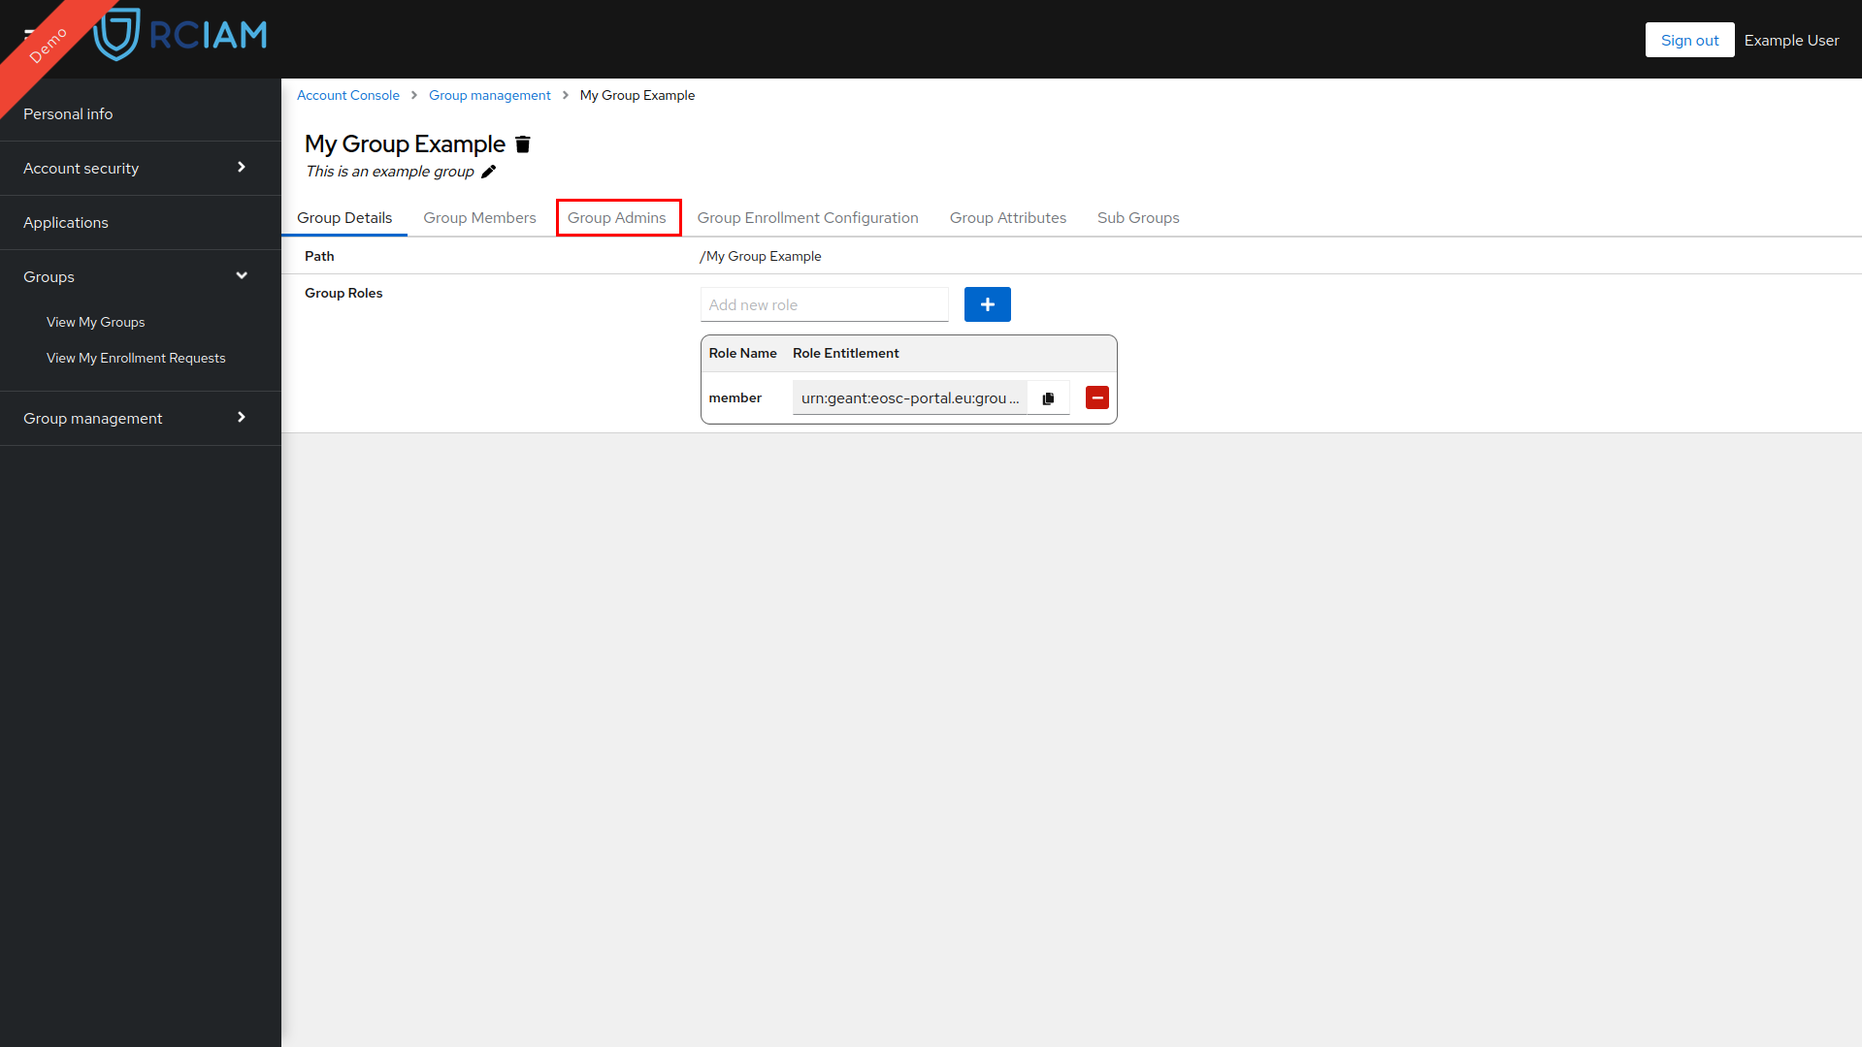
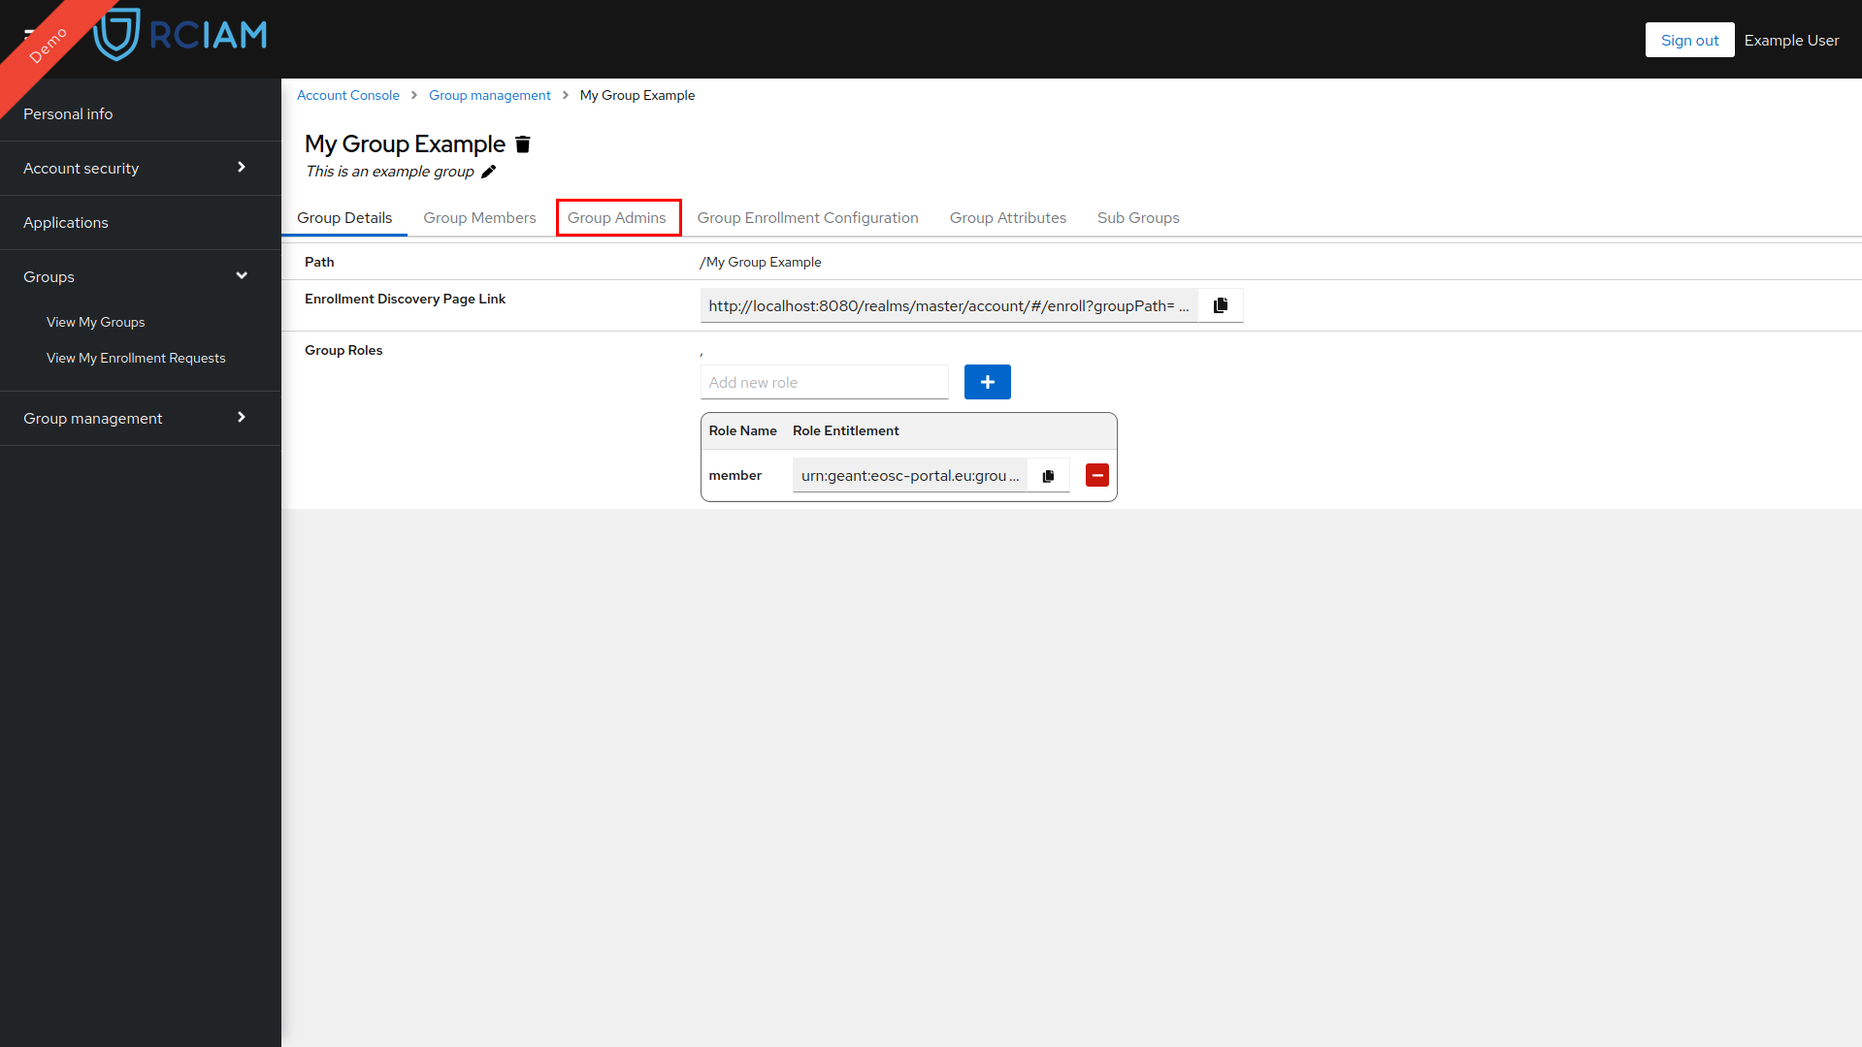
Update Group Management Admin Documentation

Changed region(s): [[0.3689, 0.2444, 0.6149, 0.4583], [0.1537, 0.2444, 0.2767, 0.3361], [0.5842, 0.4278, 0.6149, 0.4889]]

diff --git a/docs/manager/group-management.md b/docs/manager/group-management.md
@@ -4,7 +4,141 @@ sidebar_position: 4
 
 # Groups
 
+This page provides information about using RCIAM for managing your Group.
+
+## Background
+
+In simple terms, a Group is a collection of users. In RCIAM, Groups are created to organise researchers who aim to share resources across services to achieve a common goal within scientific collaborations.
+
+## Group Management
+
+Groups in RCIAM go beyond simple collections of users, providing structured membership management and advanced enrollment workflows tailored for complex access needs. Organised hierarchically, groups can contain subgroups within parent groups, with centralised administration allowing membership expirations to cascade through child memberships. This setup streamlines administrative tasks while enhancing security.
+
+
+### Group Admins 
+In RCIAM, Groups are managed by Group Admins, who have several key responsibilities:
+
+- [**Managing roles**](#view-group-details-and-manage-group-roles) for specific permissions within the Group.
+- [**Managing member roles**](#manage-group-member-roles) to users based on their needs or requests.
+- [**Extending memberships**](#extend-group-member-membership) for continued access.
+- [**Suspending or activating memberships**](#suspend-or-activate-group-member) to control user access as required.
+- [**Managing enrollment configurations**](#manage-enrollment-configurations) to define how users can join the Group.
+- [**Creating**](#create-sub-group)/[**Deleting**](#delete-sub-group) Sub Groups within the Group hierarchy.
+
+> **Note:** *Group Admin* is not a role within the Group; it is a separate administrative designation. Group Admins have the ability to manage all aspects of the Group, as well as any sub-groups in the hierarchy, including roles, memberships, and configurations.
+
+### Group Roles
+
+In RCIAM, members of Groups are assigned roles upon joining. Users can join a Group in one of two ways:
+
+- **By accepting an invitation**: Users receive the roles specified by the inviting administrator.
+- **By submitting an enrollment request**: Users can select their preferred roles from the options available, as defined by the Group’s enrollment configuration.
+
+Each assigned role includes an entitlement attribute, which grants authorization to specific resources. This flexible approach to role assignment allows Group administrators to control access while offering users the ability to select roles when available.
+
+> **Note:** *Entitlement* values can be found on the [**Group Details Tab**](#view-group-details-and-manage-group-roles)
+
+### Membership Status
+
+Members of a Group in RCIAM can have different statuses that affect their access and entitlements:
+
+- **Active**: The membership is fully active, and the user receives all entitlements associated with the roles they hold in the Group.
+
+- **Suspended**: Administrators can suspend a user’s membership for security reasons, such as suspicious activity. While suspended, the user retains membership but loses all entitlements tied to their roles. Administrators can later revoke the suspension and [reactivate the membership](#suspend-or-activate-group-member).
+
+- **Pending**: A user’s membership can have a future start date based on the enrollment configuration used during joining. This scheduled membership will activate automatically on the specified start date. Administrators also have the option to [activate the membership manually](#suspend-or-activate-group-member) if needed.
+
+> **Note:** **Suspension/Activation** of a member will also affect all memberships in Sub Groups of target group
+
+Each status provides Group administrators with flexible control over user access and helps ensure security within the Group.
+
+
+### Membership Expiration 
+
+Memberships in Groups come with a defined duration, which may be set to indefinite if allowed by the Group’s configuration settings. However, the duration of any membership is also affected by the Group's position within the Group hierarchy. Membership in a higher-level Group imposes a duration limit on all memberships in its subordinate Groups. As a result, the expiration date for any membership in a lower-level Group cannot exceed the duration limit set by the higher-level Group.
+
+#### Understanding Expiration Dates in Group Memberships
+
+When viewing members within a Group, you will encounter two types of expiration dates:
+
+- **Direct Membership Expiration**: This date indicates the expiration of membership specifically for the Group you are currently viewing. It applies only to that Group and not to any other Group within the hierarchy.
+  
+- **Effective Membership Expiration**: If relevant, this reflects the actual expiration date imposed by a higher-level Group. If a higher-level Group has an earlier expiration date than the Direct Membership Expiration, the Effective Membership Expiration will take precedence, overriding the direct expiration date for the current Group.
+
+For example, if a user’s Direct Membership Expiration in a lower-level Group is set to indefinite (or a date beyond 2024), but the Effective Membership Expiration from a higher-level Group is November 12, 2024, the user’s membership will expire on November 12, 2024, in line with the higher Group’s restrictions.
+
+![Admin Group Effective Membership Expiration](../../static/img/manager/admin-group-effective-expiration.png)
+
+This hierarchical approach to managing memberships allows for simplified administration and ensures consistent access policies are maintained across different Group levels.
+
+#### Pending Memberships with Future Start Dates
+
+Some enrollment flows or invitations may specify a starting date in the future. In these cases, users who accept the invitation or submit an enrollment request will have a **pending membership** status until the specified start date. Once the start date arrives, the membership will automatically activate, transitioning from pending to active status.
+
+### View Group Details and Manage Group Roles
+The **Group Details Tab** provides essential information and management options, including:
+
+- **Available Group Roles**: Lists roles within the Group and displays the entitlements granted to users with these roles.
+- **Group Path**: Shows the hierarchical path of the Group within the overall structure.
+- **Enrollment Discovery Page URL**: Provides a link to the [Enrollment Discovery Page](#enrollment-discovery-page), allowing users to access relevant enrollment options.
+
+1. Log in to the [Keycloak Account Console](https://kc-example/account/#/) using any of your login credentials linked to your RCIAM account.
+2. Go to the [Group Management Page](https://kc-example/account/#/groups/admingroups) and select the target group to access its Group Configuration Page.
+   ![Admin Groups View](../../static/img/manager/admin-groups.png)
+3. View Group Details 
+    ![Admin Groups Details View](../../static/img/manager/admin-group-details-tab.png)
+#### Create Group Role
+4. To add a new role, enter the role name in the text input field and click the plus button to create it.  
+    ![Admin Groups Create Group Role](../../static/img/manager/admin-group-create-group-role.png)
+#### Delete Group Role
+
+> **Note:**  A role cannot be deleted from a group if it is assigned to any members.
+
+4. Locate the role you want to remove and use the minus button next to it to delete it.
+    ![Admin Groups Delete Group Role](../../static/img/manager/admin-group-delete-group-role.png)
+
+### Create Sub Group
+There are two ways to create a subgroup within the platform:
+#### A) Through the [Group Management Page](https://kc-example/account/#/groups/admingroups)
+
+1. Log in to the [Keycloak Account Console](https://kc-example/account/#/) using any of your login credentials linked to your RCIAM account.
+2. Go to the [Group Management Page](https://kc-example/account/#/groups/admingroups) to locate your target group.
+   ![Admin Groups View](../../static/img/manager/admin-groups.png)
+3. Click on the more options menu next to your group, then select **"Create Subgroup"** from the available options.
+   ![Admin Create Subgroup](../../static/img/manager/admin-group-subgroups-main.png)
+
+#### B) Using the Sub Groups Tab in the Group Configuration Page
+1. Log in to the [Keycloak Account Console](https://kc-example/account/#/) using any of your login credentials linked to your RCIAM account.
+2. Go to the [Group Management Page](https://kc-example/account/#/groups/admingroups) and select the target group to access its Group Configuration Page.
+   ![Admin Groups View](../../static/img/manager/admin-groups.png)
+3. Navigate to the **Sub Groups** tab to view existing subgroups within this Group.
+   ![Admin Group Sub Group Tab](../../static/img/manager/admin-group-subgroups-tab.png)
+4. To create a new subgroup, click the **plus button (+)** at the top of the Sub Groups tab. Alternatively, you can click the **more options menu** next to an existing subgroup and select the option to create a subgroup within that subgroup.
+   ![Admin Group Sub Group Tab Create](../../static/img/manager/admin-group-subgroups-tab-create.png)
+
+### Delete Sub Group 
+
+> **Note:** Top-level Groups and Sub-Groups that contain additional Sub-Groups cannot be deleted.
+
+
+#### A) Through the Group Configuration Page 
+1. Log in to the [Keycloak Account Console](https://kc-example/account/#/) using any of your login credentials linked to your RCIAM account.
+2. Go to the [Group Management Page](https://kc-example/account/#/groups/admingroups) and select the target group to access its Group Configuration Page.
+   ![Admin Groups View](../../static/img/manager/admin-groups-select-sub.png)
+3. Click the trash icon to delete group 
+    ![Admin Delete Sub Group](../../static/img/manager/admin-group-subgroups-delete.png)
+
+#### B) Through the Higher Level Group
+1. Log in to the [Keycloak Account Console](https://kc-example/account/#/) using any of your login credentials linked to your RCIAM account.
+2. Go to the [Group Management Page](https://kc-example/account/#/groups/admingroups) and select the target group to access its Group Configuration Page.
+   ![Admin Groups View](../../static/img/manager/admin-groups-select-parent.png)
+3. Navigate to the **Sub Groups** tab to view existing subgroups within this Group.
+   ![Admin Group Sub Group Tab](../../static/img/manager/admin-group-subgroups-tab.png)
+4. To delete a subgroup, click the **more options menu** next to the subgroup you wish to delete and select the option to delete that.
+   ![Admin Group Sub Group Tab Create](../../static/img/manager/admin-group-subgroups-tab-delete.png)
+
 ## Membership Managment
+
 
 ### View Group Members
 
@@ -14,6 +148,7 @@ sidebar_position: 4
 3. To view the existing members, select the Group Members tab. 
 ![Admin Group View](../../static/img/manager/admin-group-view-members-tab.png)
 ![Admin Group Members](../../static/img/manager/admin-group-members.png)
+
 
 ### Add Group Members
 
@@ -39,22 +174,22 @@ Sending an email invitation to a User to join a group can be achieved by:
 
 > **_NOTE:_**  Once a user accepts or reject an invitation email notification will be sent to admins of the group
 
-#### By Enrollment URL
+#### By Enrollment Request
 
-Users can be added to a group by creating an Enrollment Request through an enrollment url. There are two types of enrollment url, one that contains all public/visible group Enrollments and one that is tied to a specific Enrollment. 
+Users can be added to a group by creating an Enrollment Request. Enrollment Requests can be created through the [Enrollment Discovery Page](#enrollment-discovery-page) or a Direct Enrollment Link. The Enrollment Discovery has available all the visible and active enrollment flows and the Direct Enrollment Link points to a single Enrollment Flow that must be active. 
 
-Α) Sharing an Enrollment URL that contains all the public/visible group Enrollments following these steps:
+Α) Sharing the Enrollment Discovery Page Link following these steps:
 
 1. Login to [Keycloak Account Console](https://kc-example/account/#/) using any of the login credentials already linked to your RCIAM account.
-2. Locate your group in the [Group Management Page](https://kc-example/account/#/groups/admingroups) and access the Group Configuration Page by clicking it.
+2. Locate your group in the [Group Management Page](https://kc-example/account/#/groups/admingroups).
 ![Admin Groups View](../../static/img/manager/admin-groups.png)
-3. Select the more options and from the available options select the “Copy enrollment link to this group”.
+3. Select the more options and from the available options select the “Copy enrollment link to this group”admin-group-subgroups-main.png.
 ![Admin Group Invite Url](../../static/img/manager/admin-group-invite-url.png)
 4. Share the copied Enrollment URL with the User. 
 
 > **_NOTE:_** Once a user submits an enrollment request admins of the group will receive an email notification.
 
-B) Sharing an Enrollment URL for a specific Enrollment
+B) Sharing an Direct Enrollment Link to a specific Enrollment
 
 1. Login to [Keycloak Account Console](https://kc-example/account/#/) using any of the login credentials already linked to your RCIAM account.
 2. Locate your group in the [Group Management Page](https://kc-example/account/#/groups/admingroups) and access the Group Configuration Page by clicking it.
@@ -69,6 +204,8 @@ B) Sharing an Enrollment URL for a specific Enrollment
 > **_NOTE:_** Once a user submits an enrollment request admins of the group will receive an email notification.
 
 ### Remove Member from Group
+
+> **_NOTE:_** Removing a member from a group will also remove them from all Sub Groups.
 
 1. Login to [Keycloak Account Console](https://kc-example/account/#/) using any of the login credentials already linked to your RCIAM account.
 2. Locate your group in the [Group Management Page](https://kc-example/account/#/groups/admingroups) and access the Group Configuration Page by clicking it.
@@ -89,11 +226,25 @@ B) Sharing an Enrollment URL for a specific Enrollment
 3. Select the Group Members tab.
 ![Admin Group Members](../../static/img/manager/admin-group-view-members-tab.png)
 4. Locate the User you want to alter their roles.
-5. Click the edit button next to their assigned roles.
+5. Click the edit button.
 ![Admin Group Edit Member Roles](../../static/img/manager/admin-group-edit-member-roles.png)
 6. Alter their roles by selecting the desired ones from the available options.
 ![Admin Group Edit Member Roles Window](../../static/img/manager/admin-group-edit-member-roles-window.png)
-7. To save edited member roles click the OK button.
+7. To save edited member roles click the Save button.
+
+### Extend Group Member Membership
+1. Login to [Keycloak Account Console](https://kc-example/account/#/) using any of the login credentials already linked to your RCIAM account.
+2. Locate your group in the [Group Management Page](https://kc-example/account/#/groups/admingroups) and access the Group Configuration Page by clicking it.
+![Admin Groups View](../../static/img/manager/admin-groups.png)
+3. Select the Group Members tab.
+![Admin Group Members](../../static/img/manager/admin-group-view-members-tab.png)
+4. Locate the User you want to alter their roles.
+5. Click the edit button.
+![Admin Group Edit Member Roles](../../static/img/manager/admin-group-edit-member-roles.png)
+6. Alter the expiration date using the date picker.
+![Admin Group Edit Member Roles Window](../../static/img/manager/admin-group-extend-membership.png)
+7. To save edited membership details click the Save button.
+
 
 ### Suspend or Activate Group Member
 	
@@ -154,17 +305,15 @@ User memberships can be suspended or activated by a group admin by following the
 
 ## Manage Enrollment Configurations
 
-User enrols to a group using a specific enrollment configuration, each enrollment has a configuration that defines the following things:
+User enrols to a group using a specific enrollment, each enrollment has a configuration that defines the following things:
 
 **Enrollment Name:** The identifying name of the enrollment.
 
-**Membership Expiration:** The duration of the memberships of users enrolled with this enrollment. 
-
-> Membership Expiration can also be indefinite is configuration allows it.
+**Membership Expiration:** The duration of the memberships of users enrolled with this enrollment. [See more](#membership-expiration)
 
 **Start Date:** Allows for memberships to be activated in future time and not directly after an enrollment is completed.
 
-**Requires Approval:** If true enrollment requests submitted by user need to be approved by an administrator.
+**Requires Approval:** When enabled, enrollment requests submitted by users need to be approved by an administrator; otherwise, requests will be automatically approved.
 
 **Comments:** If activated Users that are submitting an enrollment request need to also provide additional information.
 
@@ -174,10 +323,19 @@ User enrols to a group using a specific enrollment configuration, each enrollmen
 
 **Multiselect Roles:** If activated users using this enrollment can select multiple roles.
 
-**Visible to non-members:** If activated the enrollment will be available in the Group Enrollment discovery page.
+**Visible to non-members:** If activated the enrollment will be available in the Group [Enrollment Discovery Page](#enrollment-discovery-page).
 
 **Is Active:** Only active enrollments can be used for user enrollments.
 
+### Enrollment Discovery Page
+
+Each group has a group enrollment discovery page where users can view all the available (visible) enrollment flows. Selecting an enrollment flow and using the submit button after filling the form creates an enrollment request. Enrollment requests can be used to create a new membership to a group or update an existing one. Always preselected is the default enrollment flow.
+
+The Enrollment Discovery Page is accessed through a URL using the group path of a group following this format:
+
+[https://kc-example/account/#/enroll?groupPath=/group/path/example](https://kc-example/account/#/enroll?groupPath=/group/path/example)
+
+![Enrollment Discovery Page](../../static/img/manager/admin-group-enrollment-discovery-page.png)
 
 ### Create Enrollment Configuration
 
@@ -204,6 +362,8 @@ User enrols to a group using a specific enrollment configuration, each enrollmen
 6. Edit the fields you want to update and click the SAVE button to update the Enrollment Configuration
 ![Admin Group Update Enrollment Form](../../static/img/manager/admin-group-update-enrollment-form.png)
 
+> **_NOTE:_** When updating an enrollment configuration, all ‘pending approval’ and ‘Waiting for reply’ enrollment requests with this configuration are archived.
+
 ### Delete Enrollment Configuration
 
 1. Login to [Keycloak Account Console](https://kc-example/account/#/) using any of the login credentials already linked to your RCIAM account.
@@ -218,10 +378,11 @@ User enrols to a group using a specific enrollment configuration, each enrollmen
 ![Admin Group Delete Enrollment](../../static/img/manager/admin-group-delete-enrollment.png) 
 7. Click the YES button to delete the Enrollment Configuration in the confirmation pop-up window. 
 
-## Review Enrollment Request
+> **_NOTE:_** When deleting an enrollment configuration, all ‘pending approval’ and ‘Waiting for reply’ enrollment requests with this configuration are archived.
 
-Once a enrollment request to join a group is submitted admins of the group are notified to review the request if that request requires approval.
- 
+## Review Enrollment Request
+All **enrollment requests**—no matter for the status—are accessible through the **Account Console** for Group admins. When a user submits an enrollment request to join a Group and the request requires approval, Group admins are notified via email. These notifications include a direct link to the request that needs to be reviewed, streamlining the approval process. Admins can view and manage these enrollment requests directly from their Account Console, making it easy to keep track of pending requests and process approvals in a timely manner.
+
 To review an enrollment request follow these steps:
 
 1. Login to [Keycloak Account Console](https://kc-example/account/#/) using any of the login credentials already linked to your RCIAM account.
@@ -244,17 +405,27 @@ Information Available when reviewing an enrollment request:
 
 **Submission Date:** Date and time of the submission of the request by the user.
 
-**Enrollment Request Status:** Status of the request. (Pending Approval, Approved, Rejected)
+**Enrollment Request State**: State of the request. (Pending Approval, Approved, Rejected, Self Reviewed, Archived)
 
 ### User Details
+The User Details at the time the enrollment request was created:
 
-**Full Name:**  Full name of the user submitting the request.
+**Full Name**: Full name of the user when the request was submitted.
 
-**Email:** Email address of the user submitting the request.
+**Email**: Email address of the user when the request was submitted.
 
-**Identity Assurance:** ????
+**Authentication Providers**: Authentication provider(s) used by the user for submitting the request.
 
-**Linked Identity Providers:** 
+**Assurance**: Information for assessing the confidence level in the identity of the user when the request was submitted.
+
+
+### Show Current User Details
+
+**Full Name**: Current full name in the user profile
+
+**Email**: Current email address in the user profile
+
+**Linked Identity Providers**: Authentication providers linked to the user’s profile.
 
 ### Membership Details
 
@@ -266,7 +437,7 @@ Information Available when reviewing an enrollment request:
 
 **Acceptable User Policy (AUP):** Link of the AUP that the user has approved
 
-**Membership Expiration Days:** The duration of the membership in days 
+**Membership Expiration Days:** The duration of the membership in days. [See more](#membership-expiration)
 
 **Comments (or custom name):** Additional information from the user submitting the request. 
 
